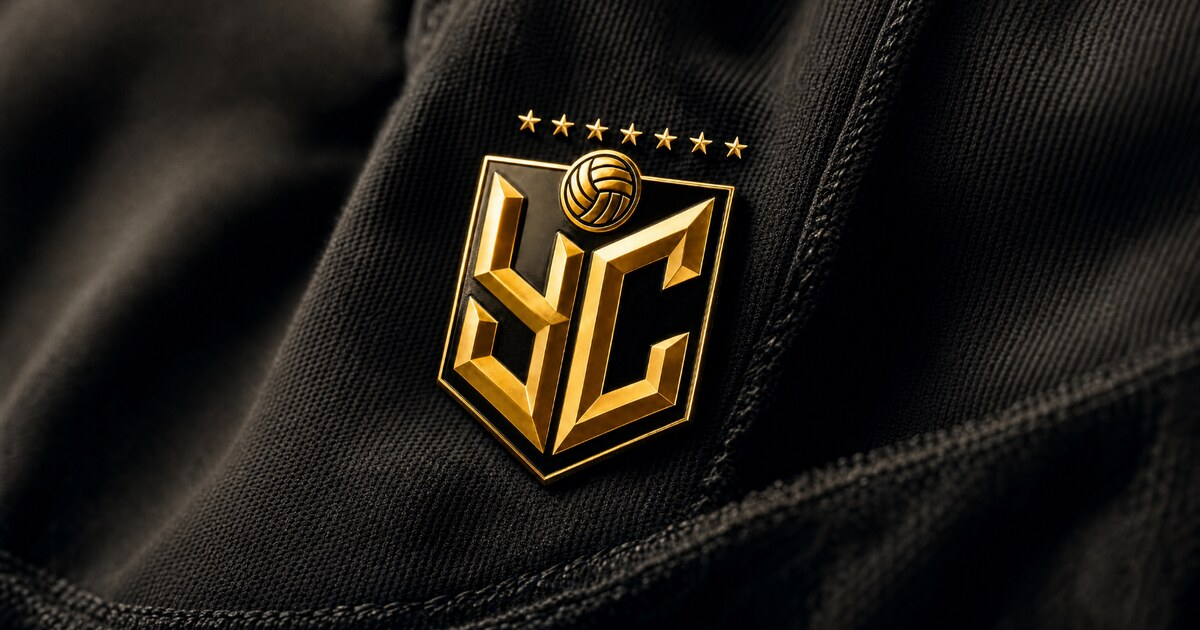
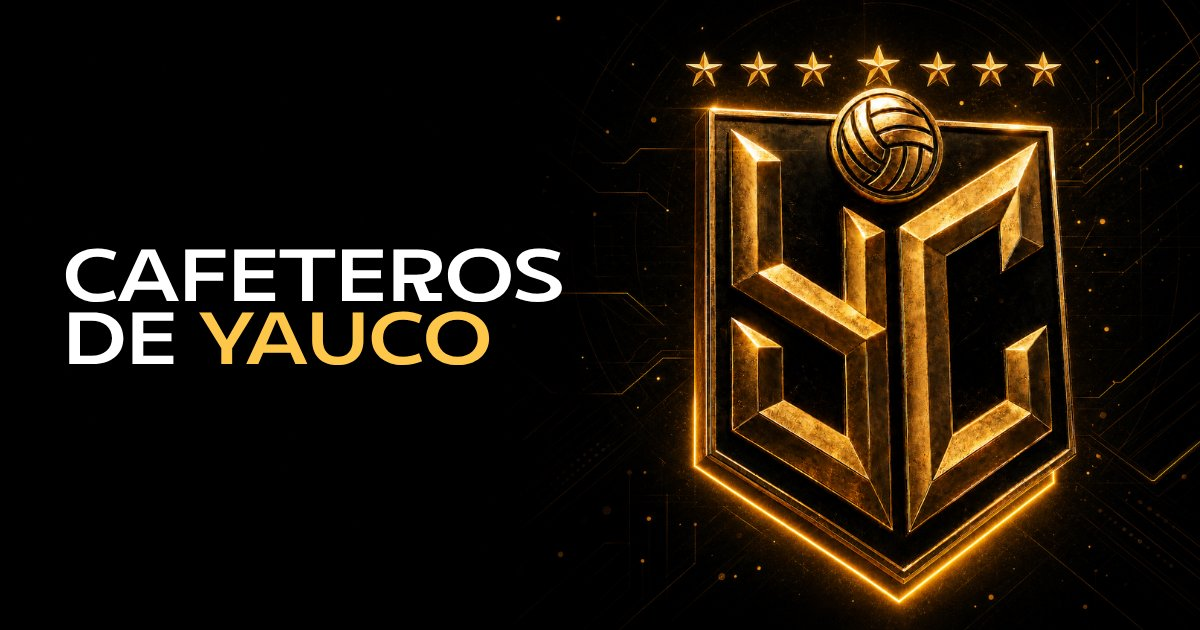
OG image, hero desktop ajustes, staff sin recuadros
- OG image: nueva imagen 1200x630 comprimida a JPG (105KB), URLs actualizadas a cafeterosdeyauco.com
- Hero desktop: titulo movido a la derecha (pl-7vw), subtitulo mas grande (1.1rem)
- DesktopDock: separador pegado al logo, antes del recuadro de Inicio
- Roster staff: nombres sin recuadros, flotando en grid 2 columnas

diff --git a/index.html b/index.html
@@ -17,10 +17,10 @@
 
     <!-- Open Graph / WhatsApp / Facebook -->
     <meta property="og:type" content="website" />
-    <meta property="og:url" content="https://fernandez-media.github.io/" />
+    <meta property="og:url" content="https://cafeterosdeyauco.com/" />
     <meta property="og:title" content="Cafeteros de Yauco | LVSM" />
     <meta property="og:description" content="El equipo campeón de la Liga de Voleibol Superior Masculina de Puerto Rico. Calendario, roster, boletos y más." />
-    <meta property="og:image" content="https://fernandez-media.github.io/og-image.jpg" />
+    <meta property="og:image" content="https://cafeterosdeyauco.com/og-image.jpg" />
     <meta property="og:image:width" content="1200" />
     <meta property="og:image:height" content="630" />
 
@@ -28,7 +28,7 @@
     <meta name="twitter:card" content="summary_large_image" />
     <meta name="twitter:title" content="Cafeteros de Yauco | LVSM" />
     <meta name="twitter:description" content="El equipo campeón de la Liga de Voleibol Superior Masculina de Puerto Rico." />
-    <meta name="twitter:image" content="https://fernandez-media.github.io/og-image.jpg" />
+    <meta name="twitter:image" content="https://cafeterosdeyauco.com/og-image.jpg" />
 </head>
   <body>
     <div id="root"></div>

diff --git a/src/pages/Index.tsx b/src/pages/Index.tsx
@@ -369,7 +369,7 @@ const Index = () => {
         </video>
         <div className="absolute inset-0" style={{ background: 'linear-gradient(to right, rgba(0,0,0,0.8) 0%, rgba(0,0,0,0.5) 40%, rgba(0,0,0,0.15) 70%, transparent 100%)' }} />
         <div className="absolute inset-x-0 bottom-0 h-32" style={{ background: 'linear-gradient(to top, #000000 0%, transparent 100%)' }} />
-        <div ref={heroTextRef} className="relative z-10 w-full pl-[3vw] pr-12 will-change-transform">
+        <div ref={heroTextRef} className="relative z-10 w-full pl-[7vw] pr-12 will-change-transform">
           <div className="max-w-[700px]">
             <h1 className="m-0 leading-[0.9]" style={{ fontFamily: "'Chakra Petch', sans-serif" }}>
               <span
@@ -387,7 +387,7 @@ const Index = () => {
             </h1>
             <p
               className="text-white/50 mt-4 m-0 font-medium leading-relaxed"
-              style={{ fontFamily: "'Space Grotesk', sans-serif", fontSize: '0.95rem' }}
+              style={{ fontFamily: "'Space Grotesk', sans-serif", fontSize: '1.1rem' }}
             >
               Tu fuente oficial para todo sobre los Cafeteros de Yauco.<br />
               Calendario, boletos, noticias y más. Toda la temporada en un solo lugar.

diff --git a/src/pages/Roster.tsx b/src/pages/Roster.tsx
@@ -166,20 +166,12 @@ const Roster = () => {
                   {section.title}
                 </h2>
               </ScrollReveal>
-              <div className="grid grid-cols-2 gap-2 lg:grid-cols-4">
+              <div className="grid grid-cols-2 gap-x-4 gap-y-1 lg:grid-cols-4">
                 {section.members.map((member, i) => (
                   <ScrollReveal key={i} delay={i * 0.04}>
-                    <div
-                      className="rounded-xl px-3 py-2.5"
-                      style={{
-                        backgroundColor: '#111',
-                        border: '1px solid rgba(255, 215, 0, 0.06)',
-                      }}
-                    >
-                      <p className="font-display font-bold text-xs text-white uppercase m-0 leading-tight">
-                        {member.name}
-                      </p>
-                    </div>
+                    <p className="font-display font-bold text-sm text-white/70 uppercase m-0 py-1">
+                      {member.name}
+                    </p>
                   </ScrollReveal>
                 ))}
               </div>

diff --git a/src/components/DesktopDock.tsx b/src/components/DesktopDock.tsx
@@ -36,7 +36,7 @@ const DesktopDock = () => {
           : '0 8px 34px rgba(0,0,0,0.4)',
       }}
     >
-      <NavLink to="/" className="flex items-center pl-2 pr-2 py-1 no-underline">
+      <NavLink to="/" className="flex items-center pl-2 pr-1 py-1 no-underline">
         <ResponsiveImage
           name="cafeteros-logo"
           alt="Cafeteros de Yauco"
@@ -48,7 +48,7 @@ const DesktopDock = () => {
         />
       </NavLink>
 
-      <span className="w-px h-10 bg-gold/25 mx-1" aria-hidden="true" />
+      <span className="w-px h-10 bg-gold/25 mr-2" aria-hidden="true" />
 
       <ul className="flex items-center gap-1 pr-1">
         {navItems.map((item) => (
